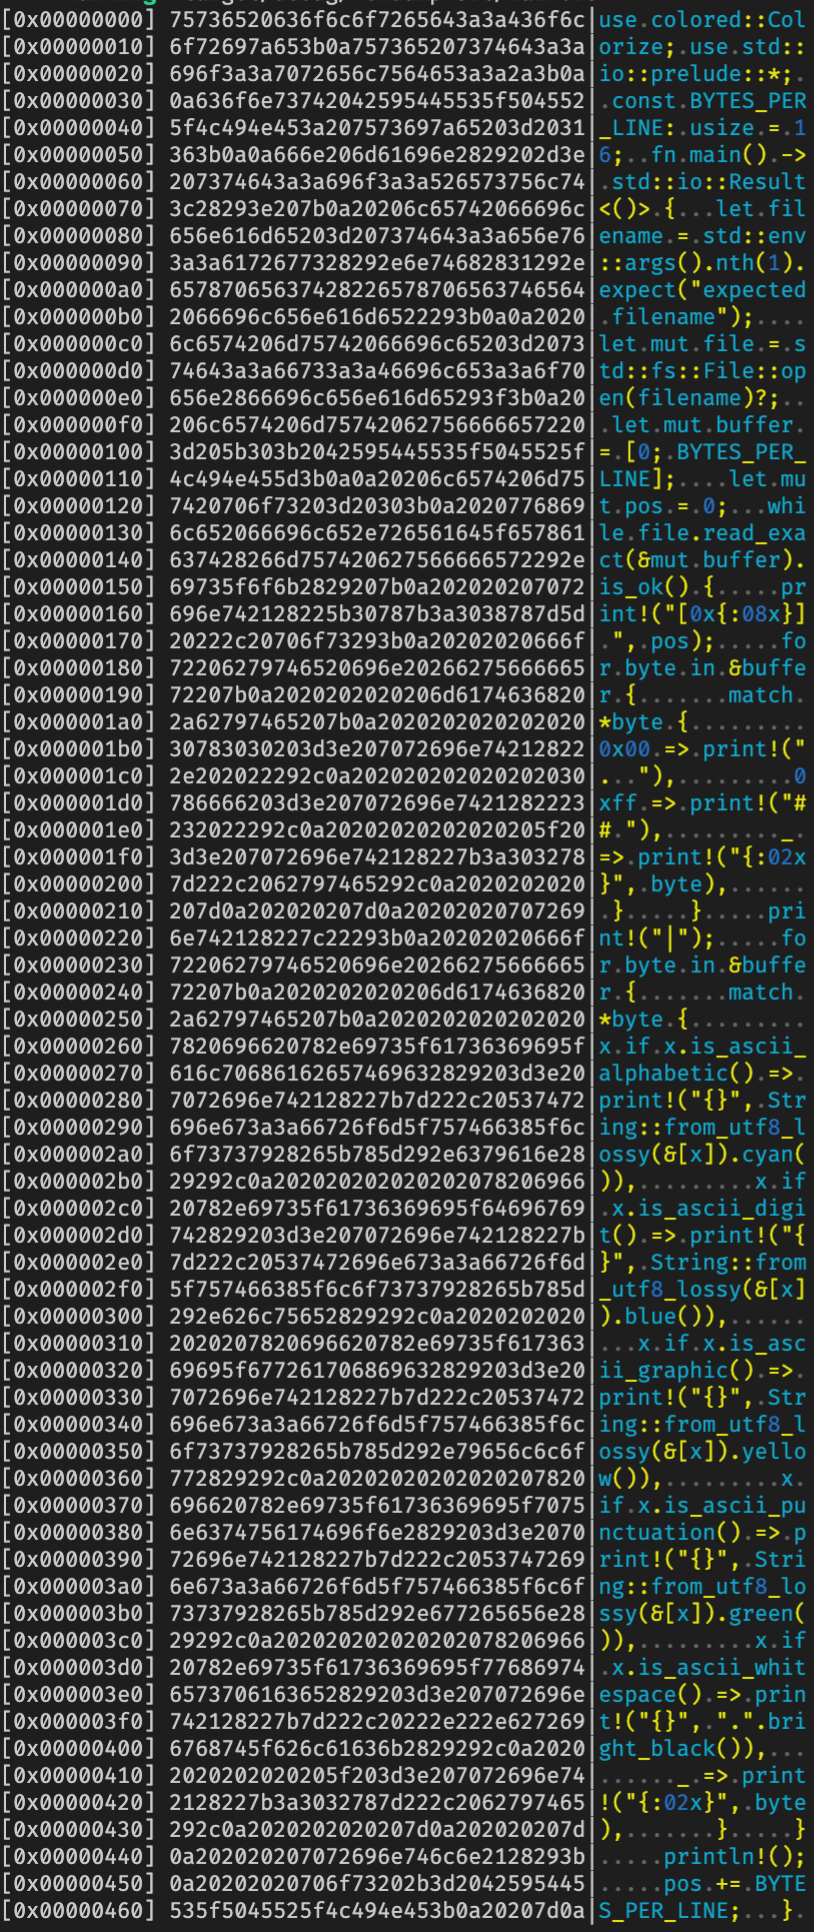
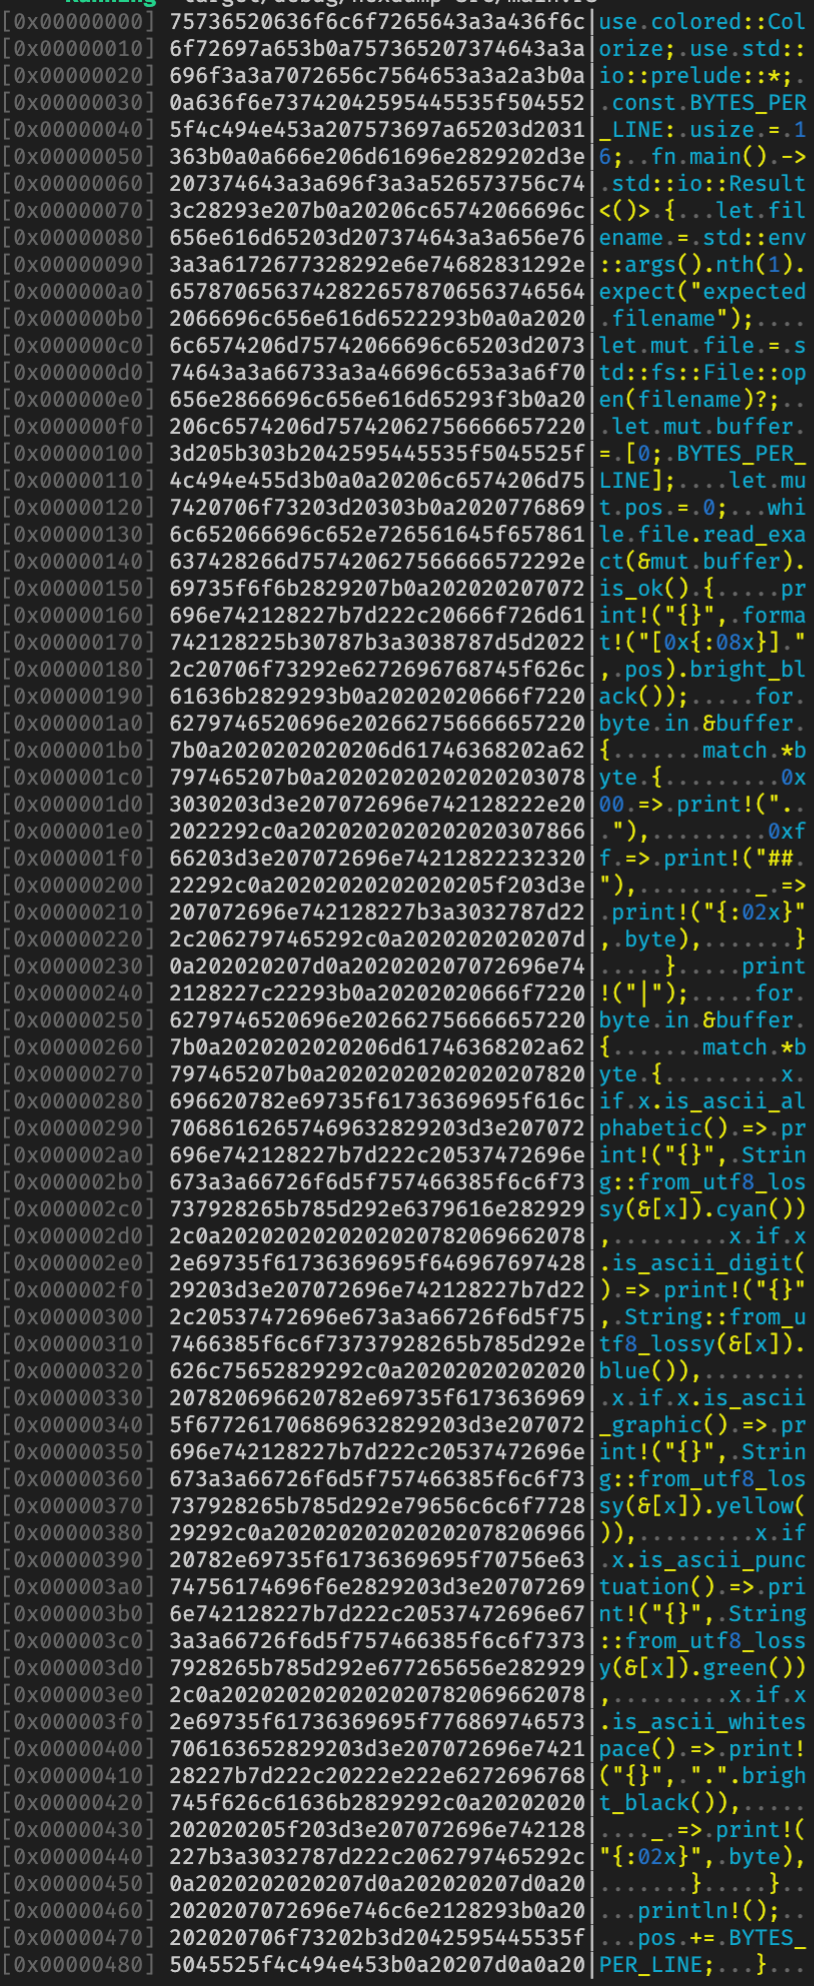
Change color of location and separator

diff --git a/src/main.rs b/src/main.rs
@@ -11,7 +11,7 @@ fn main() -> std::io::Result<()> {
 
   let mut pos = 0;
   while file.read_exact(&mut buffer).is_ok() {
-    print!("[0x{:08x}] ", pos);
+    print!("{}", format!("[0x{:08x}] ", pos).bright_black());
     for byte in &buffer {
       match *byte {
         0x00 => print!(".  "),
@@ -19,7 +19,7 @@ fn main() -> std::io::Result<()> {
         _ => print!("{:02x}", byte),
       }
     }
-    print!("|");
+    print!("{}", "|".bright_black());
     for byte in &buffer {
       match *byte {
         x if x.is_ascii_alphabetic() => print!("{}", String::from_utf8_lossy(&[x]).cyan()),
